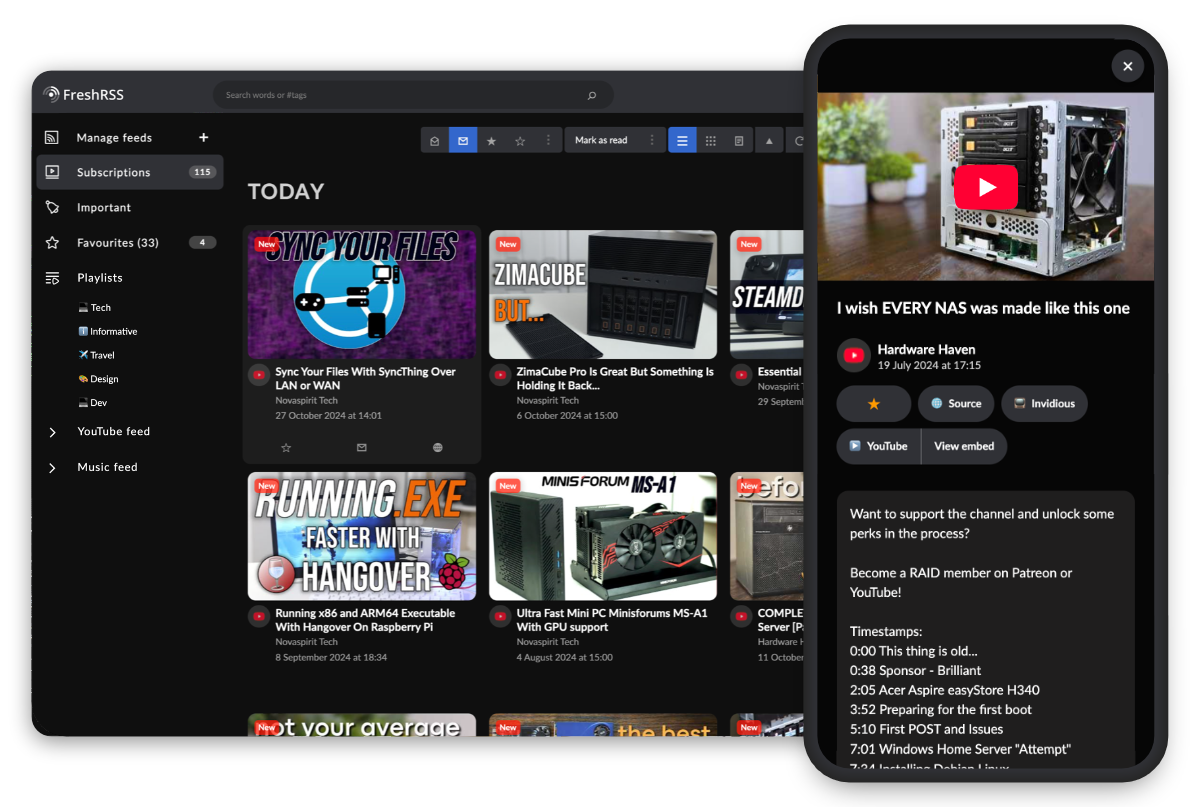
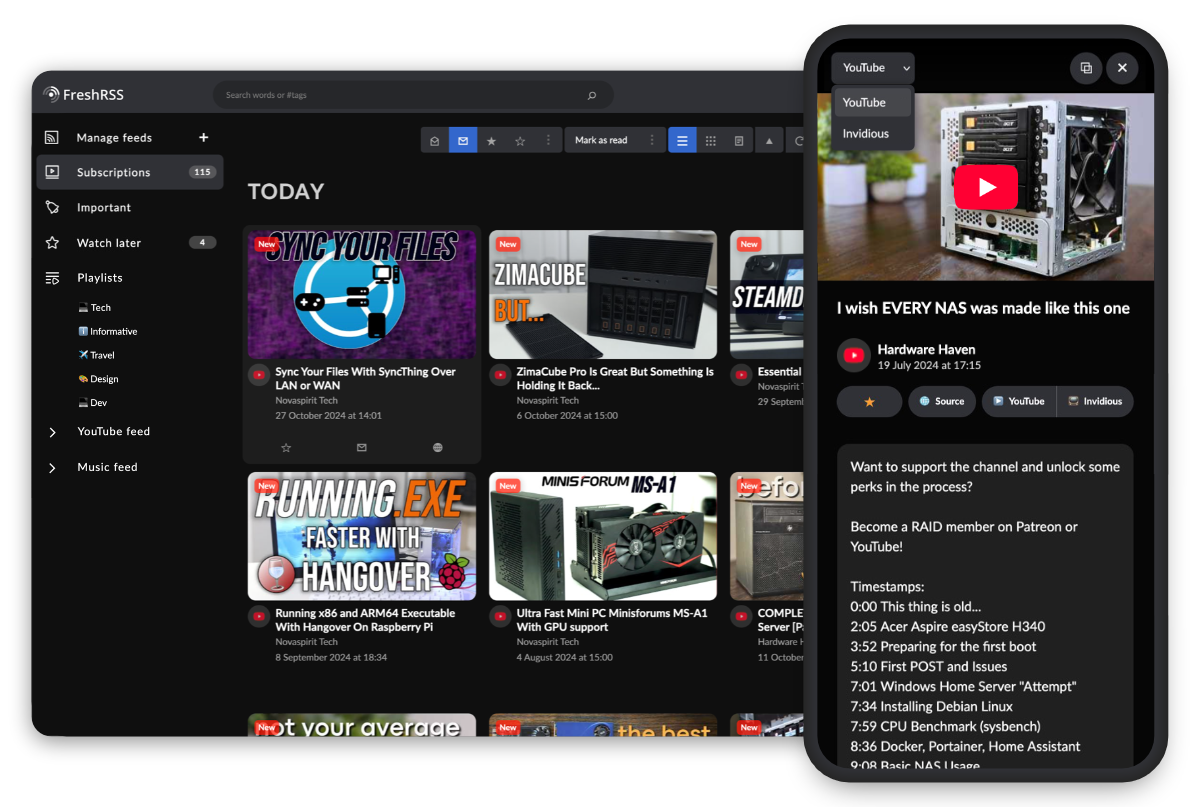
docs: update readme install instructions to include invidious settings details, update screenshot.

diff --git a/README.md b/README.md
@@ -50,11 +50,13 @@ While it also supports regular feeds, this setup is tailored specifically for vi
 
 1. Download the [latest release here](https://github.com/civilblur/youlag/releases).
 
-2. Unzip the file and you'll find a folder named `xExtension-Youlag` inside.
+1. Unzip the file and you'll find a folder named `xExtension-Youlag` inside.
 
-3. Move the `xExtension-Youlag` folder into your FreshRSS installation folder: `www/freshrss/extensions/`.
+1. Move the `xExtension-Youlag` folder into your FreshRSS installation folder: `www/freshrss/extensions/`.
 
-3. In FreshRSS, go to `Settings > Extensions` and enable the `Youlag` extension.
+1. In FreshRSS, go to `Settings > Extensions` and enable the `Youlag` extension.
+  - If you use [Invidious](https://invidious.io/), you can set your instance in the Youlag settings. This will allow you to choose which video source to play from when watching videos.
+
 
 ## Contribution
 
